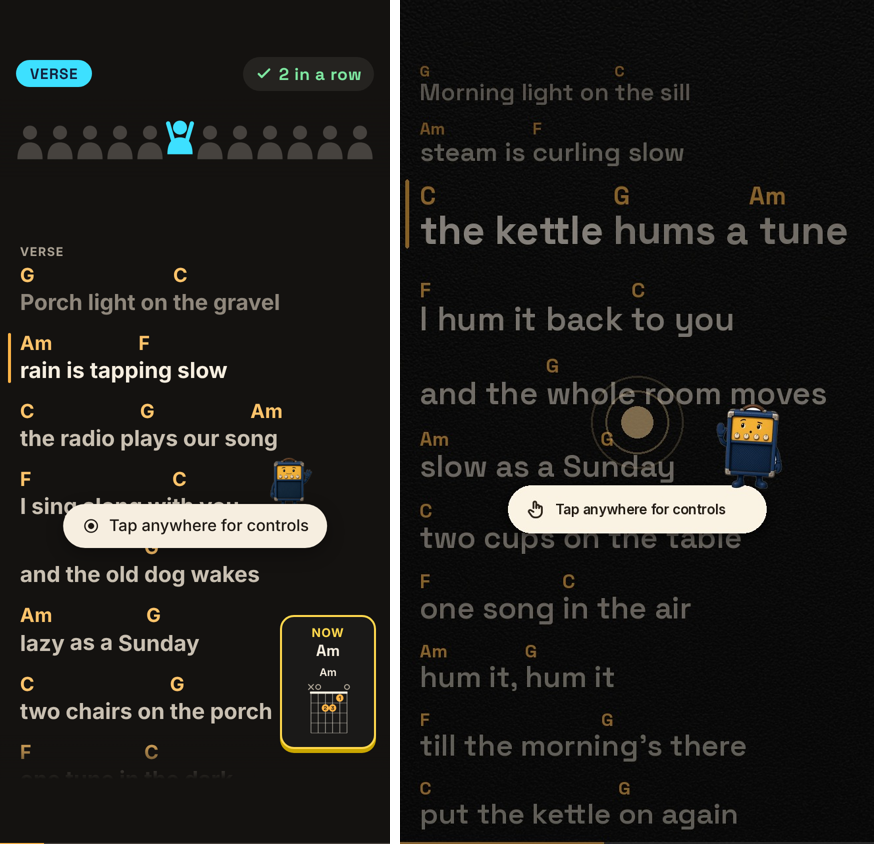
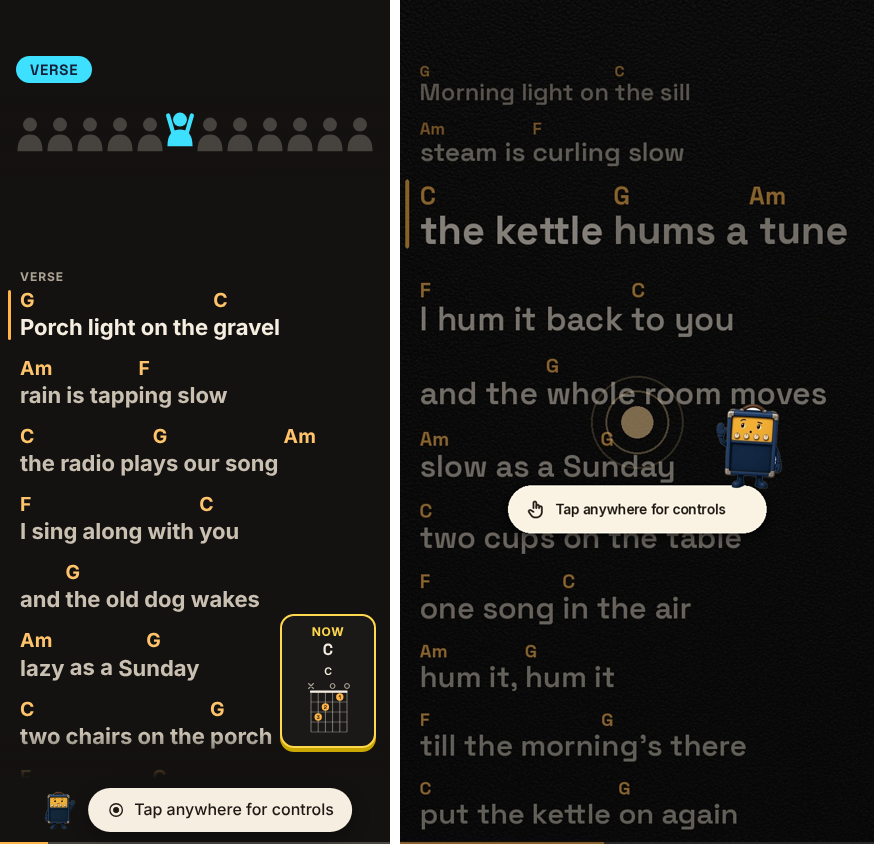
Road Ready 05: the first-run hint moves to the bottom and fades on its own
The "Tap anywhere for controls" hint no longer sits over the words. It shows at the
bottom, in the space Pause leaves when the controls hide, above the progress line and
inside the safe area, with Louie beside it. It fades on its own 5 seconds after it shows
(0.25 s, or gone at once with Reduce Motion). A tap or key still takes it away at once,
and it still never shows again. New test for the position and the 5 s fade; screenshot
updated.

Claude-Session: https://claude.ai/code/session_01JnUP812THQxMaFYV1DxrCe

diff --git a/gig.js b/gig.js
@@ -176,19 +176,28 @@ function bindIdle(g) {
   }, 400);
   g.unbindIdle = () => { clearInterval(g.idleT); document.removeEventListener("click", eat, true); evs.forEach(ev => removeEventListener(ev, wake, { capture: true })); };
 }
-/* The first-run hint (Road Ready 05): the first time the controls hide, a cream frame near the bottom says how to get
-   them back, with Louie listening beside it. The first tap or key takes it away, and it never shows again. */
+/* The first-run hint (Road Ready 05): the first time the controls hide, a cream frame at the bottom, where Pause was,
+   says how to get them back, with Louie listening beside it. The first tap or key takes it away at once; otherwise it
+   fades on its own 5 s after it shows (0.25 s, or gone at once with Reduce Motion). Either way it never shows again. */
+const HINT_MS = 5000, HINT_FADE = 250;
 function hintShow(g) {
   if (g.hint || data.settings.used?.playHint) return;
   markUsed("playHint");
   const el = document.createElement("div");
   el.className = "gg-hint"; el.id = "gg-hint";
-  el.innerHTML = `<span class="gg-hint-l" aria-hidden="true">${louie("happy", { pose: "wave", size: 60 })}</span><p><svg class="gg-hint-i" viewBox="0 0 24 24" aria-hidden="true"><circle cx="12" cy="12" r="3.2"/><circle cx="12" cy="12" r="7.5" fill="none" stroke-width="1.6"/></svg>Tap anywhere for controls</p>`;
+  el.innerHTML = `<span class="gg-hint-l" aria-hidden="true">${louie("happy", { pose: "wave", size: 44 })}</span><p><svg class="gg-hint-i" viewBox="0 0 24 24" aria-hidden="true"><circle cx="12" cy="12" r="3.2"/><circle cx="12" cy="12" r="7.5" fill="none" stroke-width="1.6"/></svg>Tap anywhere for controls</p>`;
   g.el.appendChild(el);
   g.hint = el;
+  g.hintT = setTimeout(() => {
+    if (g.hint !== el) return;
+    if (window.matchMedia?.("(prefers-reduced-motion: reduce)").matches) return hintGone(g);
+    el.classList.add("fading");
+    g.hintT = setTimeout(() => { if (g.hint === el) hintGone(g); }, HINT_FADE);
+  }, HINT_MS);
 }
 function hintGone(g) {
   if (!g.hint) return;
+  clearTimeout(g.hintT);
   g.hint.remove();
   g.hint = null;
   g.hintDone = true;
@@ -262,6 +271,7 @@ export function closeGig(quiet = false) {
   gig = null;
   cancelAnimationFrame(g.raf);
   clearInterval(g.speedT);
+  clearTimeout(g.hintT);
   g.el?.remove();
   g.unbind?.(); g.unbindIdle?.();
   stageClear();

diff --git a/styles.css b/styles.css
@@ -4922,9 +4922,12 @@ body.tabbed:not(.is-home) .app:has(> .dock) { padding-bottom: calc(var(--tabs) +
 /* large text (AX1 and up): only the line you're on and the next one or two */
 :root:is([data-look="neon"], [data-look="festival"])[data-ax] body.staged .sheet > .st-past,
 :root:is([data-look="neon"], [data-look="festival"])[data-ax] body.staged .sheet > .st-next ~ :is(.pr, .ly, .crow) ~ * { visibility: hidden; }
-/* the first-run hint: a cream frame near the bottom with Louie beside it; taps go through it to the page */
-.gig > .gg-hint { position: absolute; left: 50%; top: 54%; transform: translateX(-50%); width: max-content; max-width: calc(100% - 32px); display: flex; flex-direction: column; align-items: center; pointer-events: none; z-index: 4; }
+/* the first-run hint: a cream frame at the bottom, in the space Pause leaves when the controls hide (above the 2 px
+   progress line, inside the safe area, in thumb reach), so it never covers the words; Louie beside it. Taps go through
+   it to the page. It fades on its own after 5 s (gig.js): 0.25 s, or gone at once with Reduce Motion. */
+.gig > .gg-hint { position: absolute; left: 50%; top: auto; bottom: calc(12px + var(--safe-b)); transform: translateX(-50%); width: max-content; max-width: calc(100% - 32px); display: flex; flex-direction: row; align-items: center; gap: 6px; pointer-events: none; z-index: 4; transition: opacity .25s ease-out; }
+.gig > .gg-hint.fading { opacity: 0; }
 .gg-hint p { margin: 0; display: flex; align-items: center; gap: 8px; padding: 12px 18px; border-radius: 999px; background: #F6EEE0; color: #1E1914; box-shadow: 0 6px 18px rgba(0, 0, 0, .3); font: 500 var(--type-callout, 16px) / 1.25 "Inter", var(--sans); }
 .gg-hint-i { width: 20px; height: 20px; flex: none; fill: currentColor; stroke: currentColor; }
-.gg-hint-l { flex: none; order: -1; align-self: flex-end; margin: 0 6px -6px 0; }
-.gg-hint-l .louie { display: block; width: 60px; height: auto; }
+.gg-hint-l { flex: none; order: -1; }
+.gg-hint-l .louie { display: block; width: 44px; height: auto; }

diff --git a/docs/ROAD-READY-PLAN.md b/docs/ROAD-READY-PLAN.md
@@ -164,11 +164,11 @@ Found while building step 05 (2026-11-18, Claude Opus 5.5).
 79. **The Gig has only Pause, not r10-08's five controls.** The prompt calls the controls a restyle of what the Gig has, but `shell()` has only Pause: the X went in 4.66.0 (Graham: the show is the song page, left with its own Back), speed lives in Tools while paused, and Practice a section ends a show on purpose (`GIG_ENDS` in `app.js`). Built: the song's title and artist at the top and Pause as a big amber button at the bottom centre. Not built: Close, Speed and Loop, and so no capsule (a dark capsule round one round button reads like the ring that 3.19.0 retired). **Decide:** recommended, add Close (leaves the show, the same as Back while paused) and Speed (opens the speed dial; a slowed show already can't make a song Gig-ready) in an r10-08 capsule, and leave Loop out of a show. Both need a small `app.js` hook, so they are a step of their own.
 80. **Line sizes 34, 26 and 22 are not built.** The show reads where the song is from the page as it was laid out (`diag.blocks` in `app.js` and `chordYs` in `stage.js`, measured once per draw), and 4.51.0 sizes the text so the song's longest line fits on one line (14 to 22 px, larger with the iPhone text size). Growing the current line and shrinking sung lines as the song moves would shift the words under the reading line and make those measurements wrong, which is how the song position is read (on the Don't change list). Built: the lyric colours, the bold current line, the amber bar, all at one size. **Decide:** keep it, or a separate Opus step that measures again on each line change and holds the reading line still (touches `app.js` and how the position is read; needs its own review).
 81. **Lyrics don't snap line by line under Reduce Motion.** `startScroll` has no reduced-motion path to reuse: auto-scroll moves the page a few pixels each frame, and the show reads the position from that. Not built. **Decide** with 80: snapping changes how the song moves under the reading line, so it belongs in that step.
-82. **The listening Louie art has mittens.** `louie-listen-dark.webp` and `-light.webp` were drawn before Graham's 2026-11-17 rule (hands with fingers, navy). Not added to `art/louie`. The hint uses the painted wave pose from `art/louie/v2` (fingers), at 60 px and `aria-hidden`. Grok can redraw the listening pose with fingers; then it can replace the wave.
+82. **The listening Louie art has mittens.** `louie-listen-dark.webp` and `-light.webp` were drawn before Graham's 2026-11-17 rule (hands with fingers, navy). Not added to `art/louie`. The hint uses the painted wave pose from `art/louie/v2` (fingers), at 44 px beside the frame and `aria-hidden`. PR #91 has since added a `listen` mood (hand to his ear) to `art/louie/v2`; switching the hint to it is open.
 83. **What the Gig shows today stays, where r10-07 shows only words:** the section pill, the crowd row of 12, the run counter, the NOW chord shape card, the section-coloured band behind the current line and the stage light. All kept, as the prompt says. **Decide** which stay in the Road Ready looks. Recommended: keep the crowd and the run (the game), drop the band and the stage light (the amber bar marks the line now), and move the section name into the title row.
 84. **The amber bar and the progress line use `--rr-amber-text`:** amber in dark, amber-brown in light, so they keep 3:1 on cream (plain amber on cream is about 1.5:1).
 85. **In light the chords (amber-brown, 7.7:1) have less contrast than the words.** 4.58.0's test said a line's chords are brighter than its words. In the Road Ready looks they stand out by colour instead, as the tokens set them. The test now checks 4.5:1 or more there and keeps "brighter" for Green Room and Headliner.
-86. **The hint shows the first time the controls hide, not when the show starts.** At the start the controls are on screen, so "Tap anywhere for controls" would be wrong. It is saved as `used.playHint` when it shows. It shows in every look (Louie is Road Ready everywhere); the title and progress line only in Road Ready.
+86. **The hint shows the first time the controls hide, not when the show starts.** At the start the controls are on screen, so "Tap anywhere for controls" would be wrong. It is saved as `used.playHint` when it shows. It shows in every look (Louie is Road Ready everywhere); the title and progress line only in Road Ready. After review it sits at the bottom, in the space Pause leaves, so it never covers the words, and it fades on its own 5 s after it shows (0.25 s, or at once with Reduce Motion).
 87. **A screen reader or a switch is guessed from focus with no touch in the 0.8 s before it.** A tap that focuses a button doesn't count. Keyboard focus on a control (`:focus-visible`) also keeps them. Both end when the song is paused or ends.
 88. **Space was already play and pause** (the page's pedal keys, 4.x), so the Gig adds nothing for it: no double handling. Any key shows the controls through the existing wake.
 89. **Large text hides lines with `visibility`,** so nothing moves under the reading line: lines sung step aside, and lines after the next two do too. The test browser can't report an iPhone text size, so the lyric size there stays the fitted one; on a phone 4.51.0's fit already grows with the text size.
